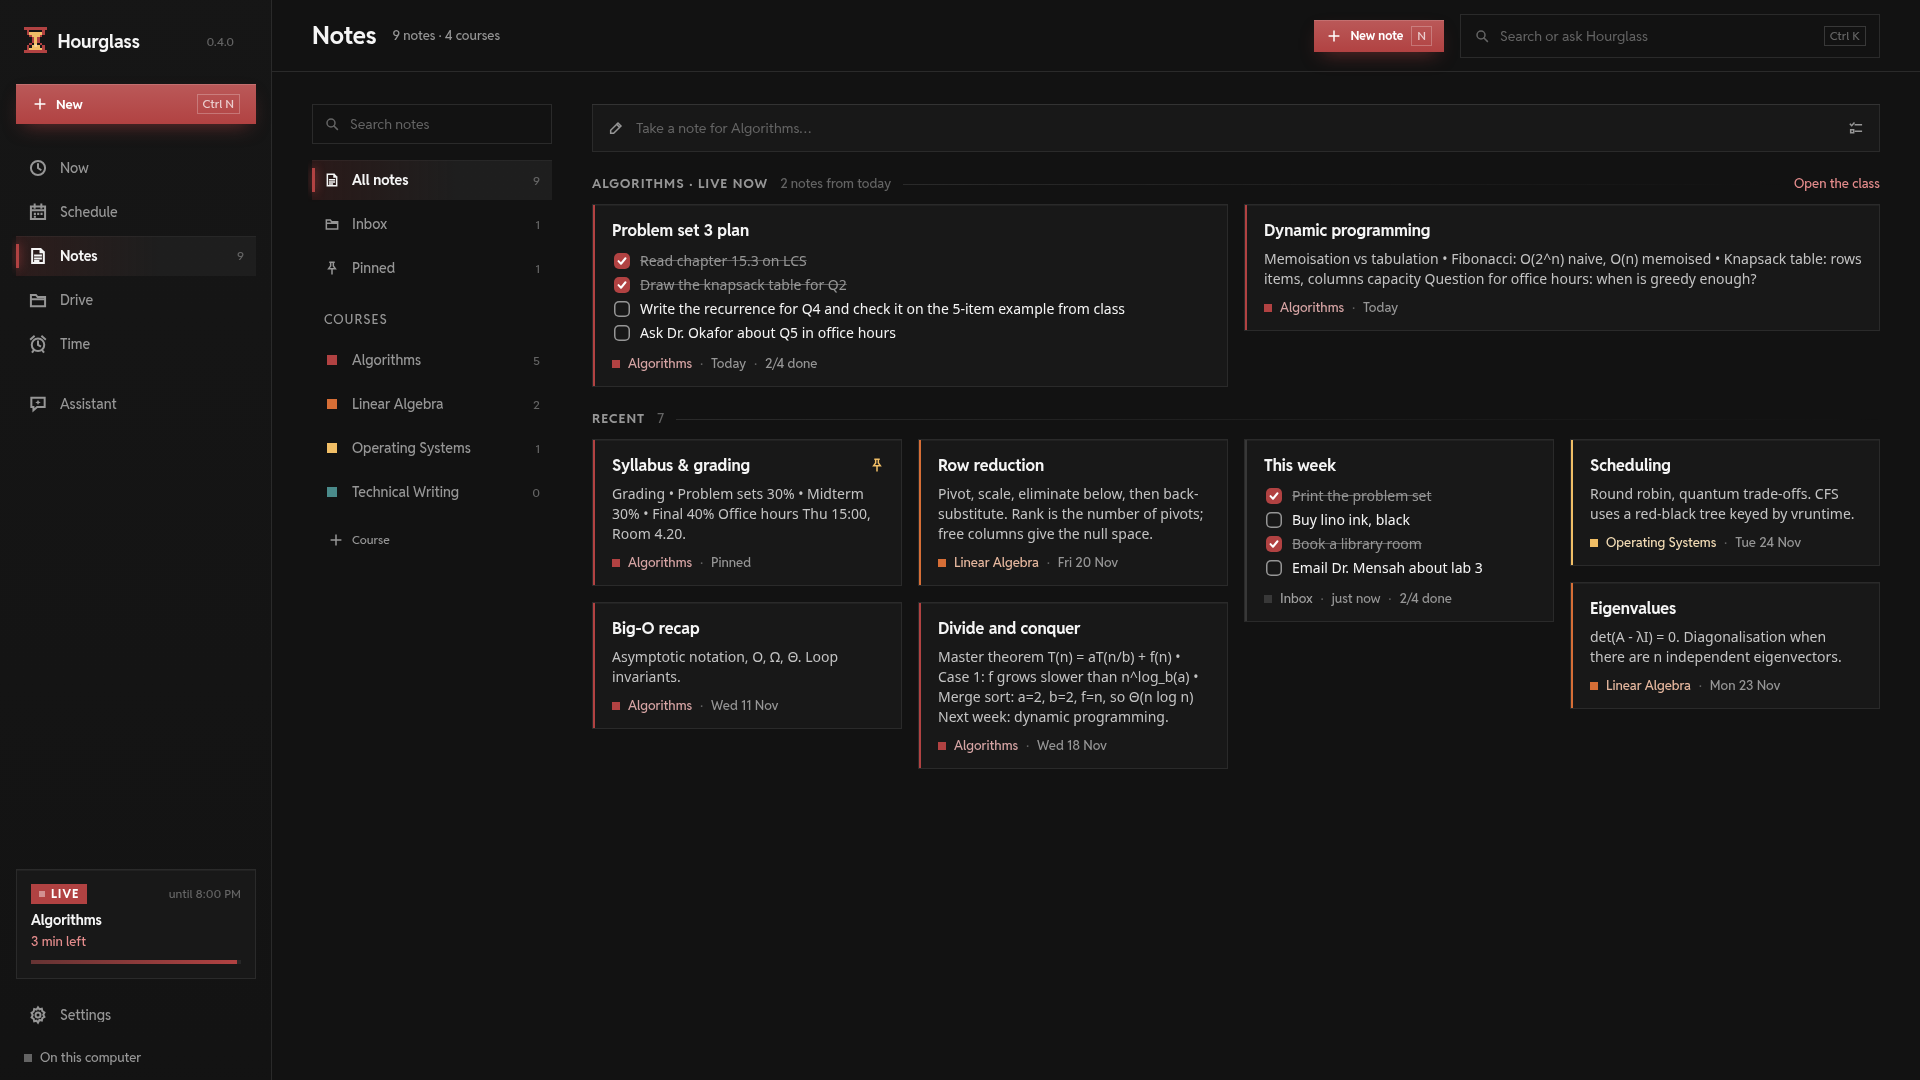
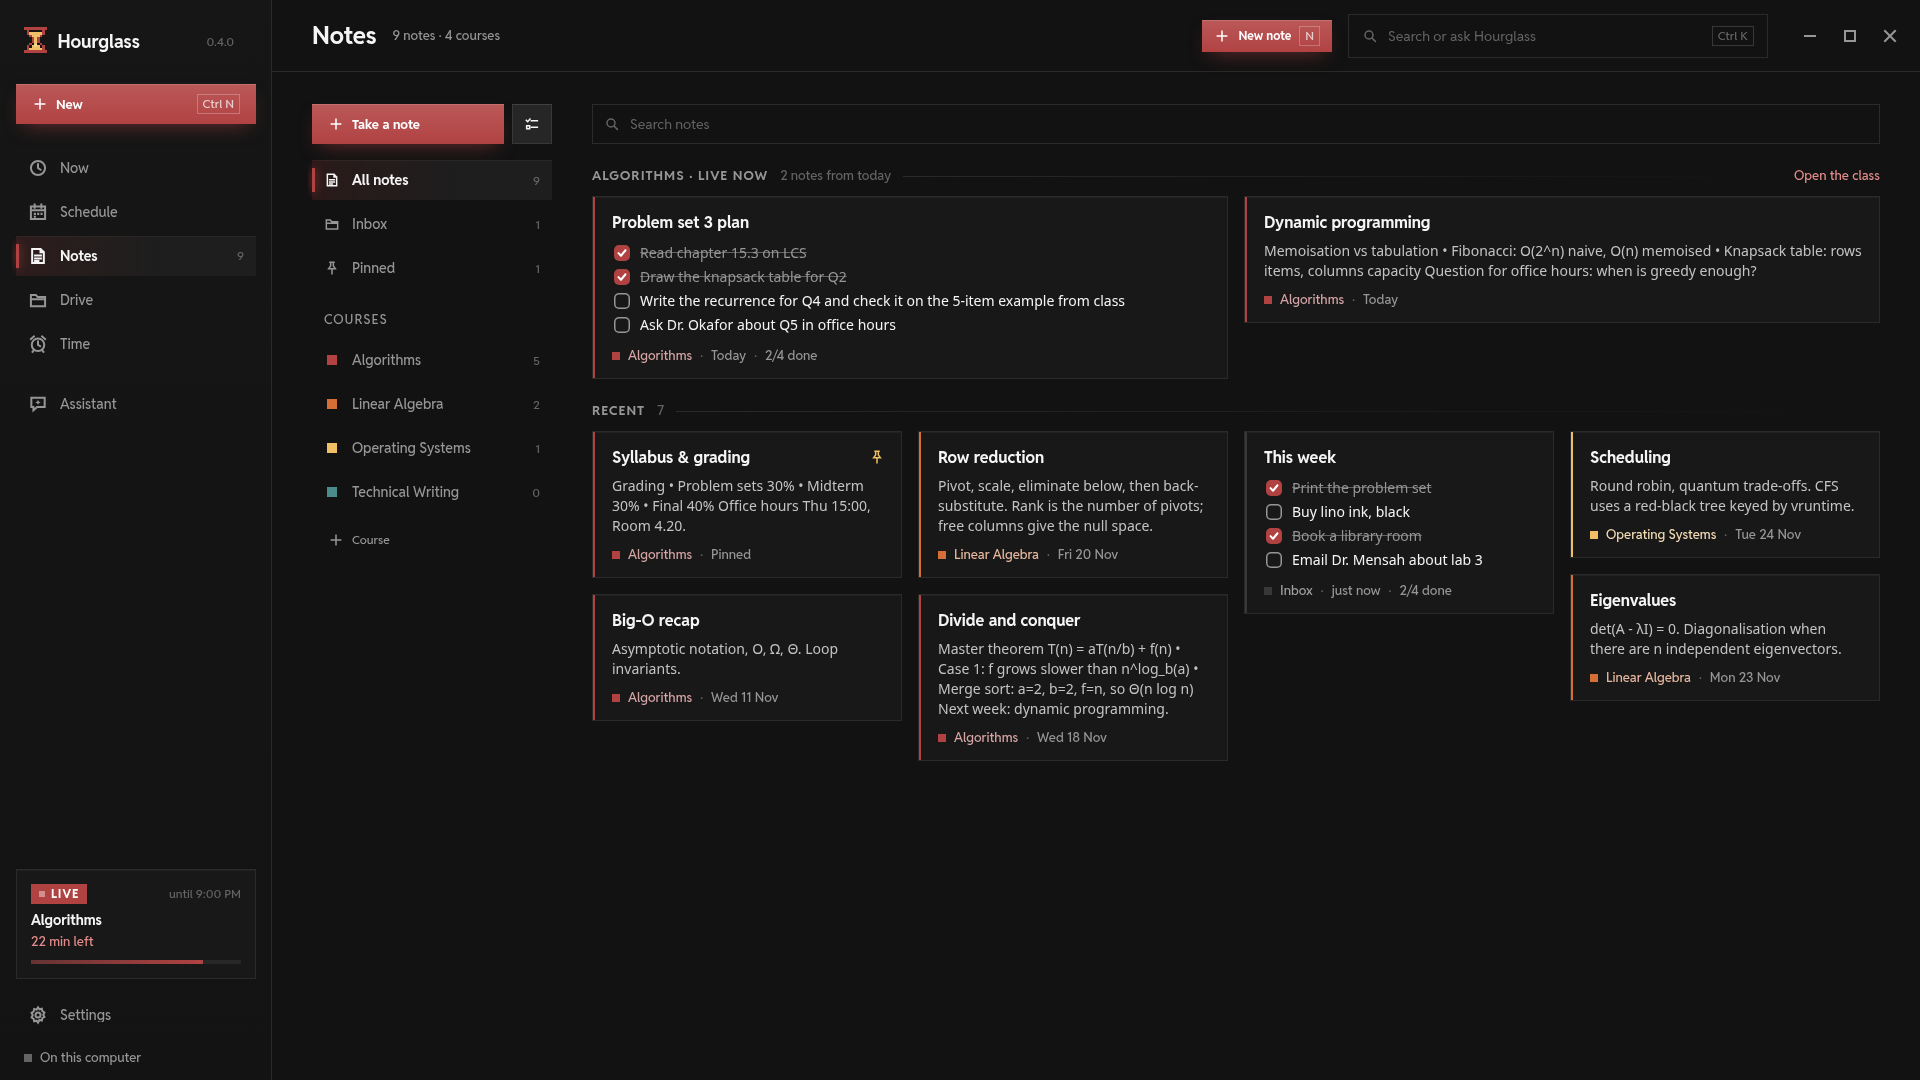
Desktop 0.4 Notes: Take a note is the red primary button above the folders; search takes its old place

diff --git a/desktop/ui/pages/notes.js b/desktop/ui/pages/notes.js
@@ -1,5 +1,5 @@
 // Notes: courses are folders (REDESIGN §5 Notes; NotesPage.qml). Round 5: the folders as a rail with counts and the
-// search, then "Take a note", the class that is live now with today's notes, and the rest as a masonry of cards
+// "Take a note" (red) over the folders, search, the class that is live now with today's notes, and the rest as a masonry of cards
 // tinted by course (to-dos previewed with the real 0.3.4 boxes).
 import { h, icon, swap } from '../dom.js';
 import { noteCard } from './parts.js';
@@ -22,8 +22,8 @@ export default {
     const liveEl = h('div');
     const grid = h('div', { class: 'masonry' });
     const gridHead = h('div');
-    const main = h('div', { class: 'notes-main' }, courseLine, take, liveEl, h('div', {}, gridHead, grid));
-    root.append(head, h('div', { class: 'page flush' }, h('div', { class: 'notes-split' }, h('div', { class: 'folders-wrap' }, searchBox, folders), h('div', { class: 'notes-scroll' }, main))));
+    const main = h('div', { class: 'notes-main' }, courseLine, searchBox, liveEl, h('div', {}, gridHead, grid));
+    root.append(head, h('div', { class: 'page flush' }, h('div', { class: 'notes-split' }, h('div', { class: 'folders-wrap' }, take, folders), h('div', { class: 'notes-scroll' }, main))));
 
     const course = () => state.courses.find((c) => c.id === sel) || null;
     const today = () => state.now?.now?.date || U.dayOf(state.clock);
@@ -68,9 +68,10 @@ export default {
       const lv = sel === 'all' && !q().length ? live() : null;
       ctxLine.textContent = sel === 'all' ? `${U.plural(notes.length, 'note')} · ${U.plural(state.courses.length, 'course')}` : sel === 'inbox' ? 'Notes without a course' : sel === 'pinned' ? 'Pinned notes show in every session of their course' : c ? [c.code, c.location, U.lead(c.teacher)].filter(Boolean).join(' · ') : '';
       const forName = c ? c.name : lv ? lv.title : '';
+      // Take a note is the red primary button, as the sidebar's New; the square one beside it starts a to-do list.
       take.replaceChildren(
-        h('button', { class: 'take-main', onclick: () => newNote() }, icon('edit'), h('span', { class: 'grow', text: forName ? `Take a note for ${forName}…` : 'Take a note…' })),
-        h('button', { class: 'take-ic', title: 'A to-do list', onclick: () => newNote({ body: '- [ ] ' }) }, icon('checklist')));
+        kit.btn('Take a note', () => newNote(), { kind: 'primary', icon: 'plus', cls: 'take-main', title: forName ? `Take a note for ${forName}` : 'Take a note' }),
+        kit.btn('', () => newNote({ body: '- [ ] ' }), { icon: 'checklist', title: 'A to-do list', cls: 'take-ic' }));
       swap(courseLine, c ? [h('b', { text: c.name }), h('button', { class: 'link', onclick: () => ctx.editCourse(c), text: 'Edit course' }), h('button', { class: 'link', onclick: () => ctx.go('drive', { course: c.id }), text: 'Files' })] : null);
       courseLine.hidden = !c;
       let list = shown();

diff --git a/desktop/ui/css/notes.css b/desktop/ui/css/notes.css
@@ -16,12 +16,10 @@
 .course-line { display: flex; align-items: center; gap: 16px; flex-wrap: wrap; font-size: 13px; }
 .course-line b { font: 700 20px/1 var(--ui); }
 .course-line .link { padding: 0; color: var(--accent-ink); }
-.take { display: flex; align-items: center; height: 48px; background: var(--surface); box-shadow: var(--hi), inset 0 0 0 1px var(--border); }
-.take-main { flex: 1; min-width: 0; height: 100%; display: flex; align-items: center; gap: 12px; padding: 0 16px; border: 0; background: transparent; color: var(--faint); font: 400 var(--fs-body) var(--ui); text-align: left; cursor: text; }
-.take-main .ic { color: var(--muted); --s: 16px; }
-.take-ic { width: 48px; height: 100%; display: grid; place-items: center; border: 0; background: transparent; color: var(--muted); cursor: pointer; font-size: 14px; transition: color var(--quick) var(--ease); }
-.take-ic:hover, .take-main:hover { color: var(--fg); }
-.take:hover { box-shadow: var(--hi), inset 0 0 0 1px var(--border2); }
+.take { display: flex; align-items: center; gap: 8px; }
+.take-main { flex: 1; min-width: 0; justify-content: flex-start; }
+.take-main .lbl { overflow: hidden; text-overflow: ellipsis; white-space: nowrap; }
+.take-ic { flex: none; }
 .band { display: grid; gap: 16px; align-items: start; }
 .masonry { display: grid; gap: 16px; align-items: start; }
 .mcol { display: grid; gap: 16px; align-content: start; min-width: 0; }
